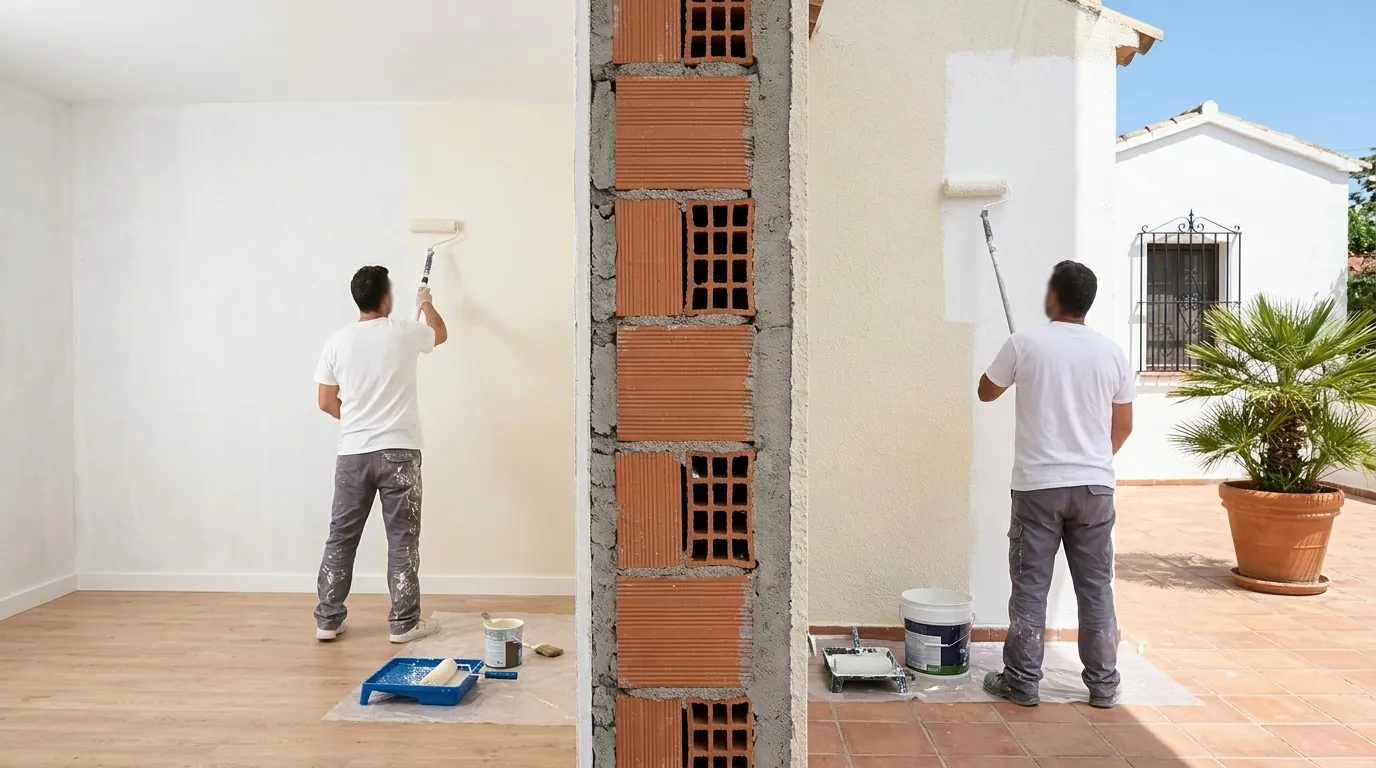
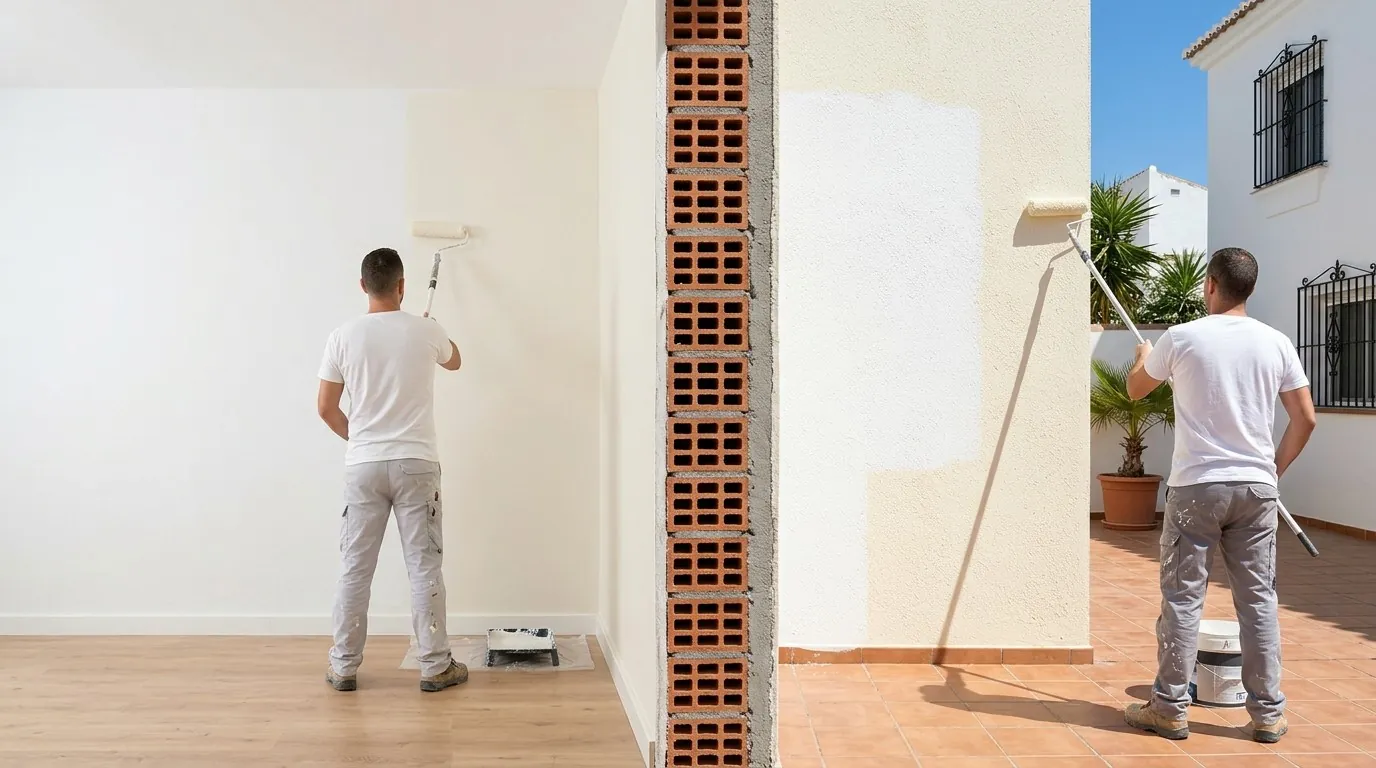
Pintura: finalne foto heroia
Claude-Session: https://claude.ai/code/session_01UyCPKmgzHuAWchCuwT9tNT

diff --git a/it/proekt-img/pintura-revision.html b/it/proekt-img/pintura-revision.html
@@ -139,7 +139,7 @@ h1, h2, h3 { text-wrap: balance; }
 </style>
 <header class="header"><div class="wrap"><a class="logo" href="#">HLD <span>CASA</span></a>
 <nav class="nav" aria-label="Menú"><a href="#">Servicios</a><a href="#">Proyectos</a><a href="#">Cómo trabajamos</a><a href="#">Nosotros</a><a href="#">Contacto</a></nav></div></header>
-<div class="nota"><div class="wrap">Перевірка: під кожним іспанським текстом — переклад українською (зелена смужка). Фото героя — перший варіант з Gemini.</div></div>
+<div class="nota"><div class="wrap">Перевірка: під кожним іспанським текстом — переклад українською (зелена смужка). Фото героя — фінальний варіант (розріз стіни).</div></div>
 <main>
 <section class="servicio-hero">
 <h1>Pintura en Málaga</h1>
